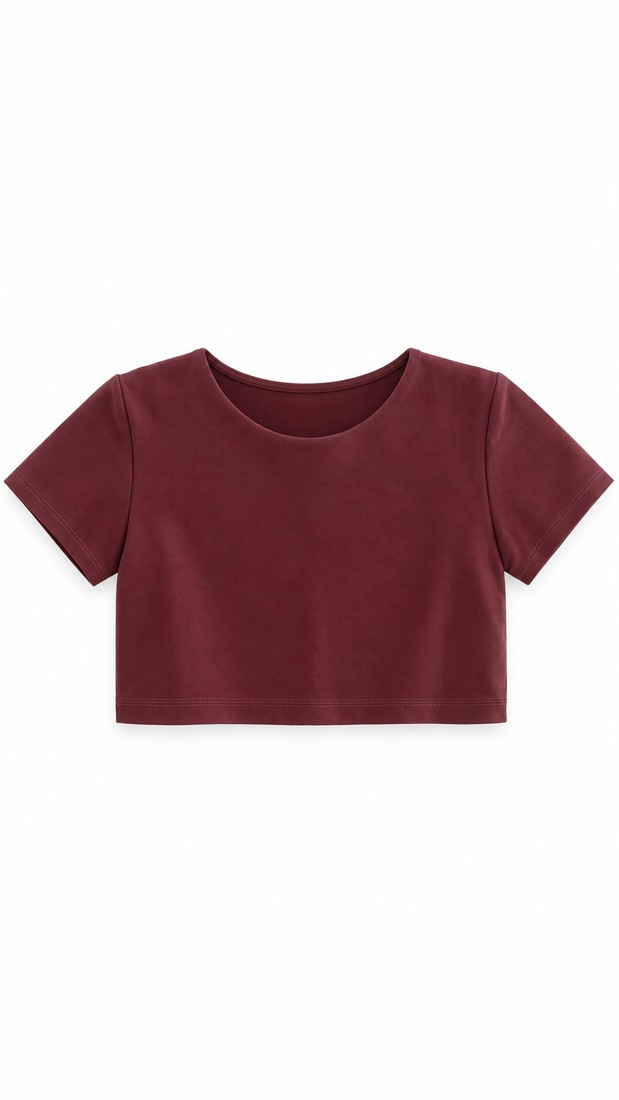
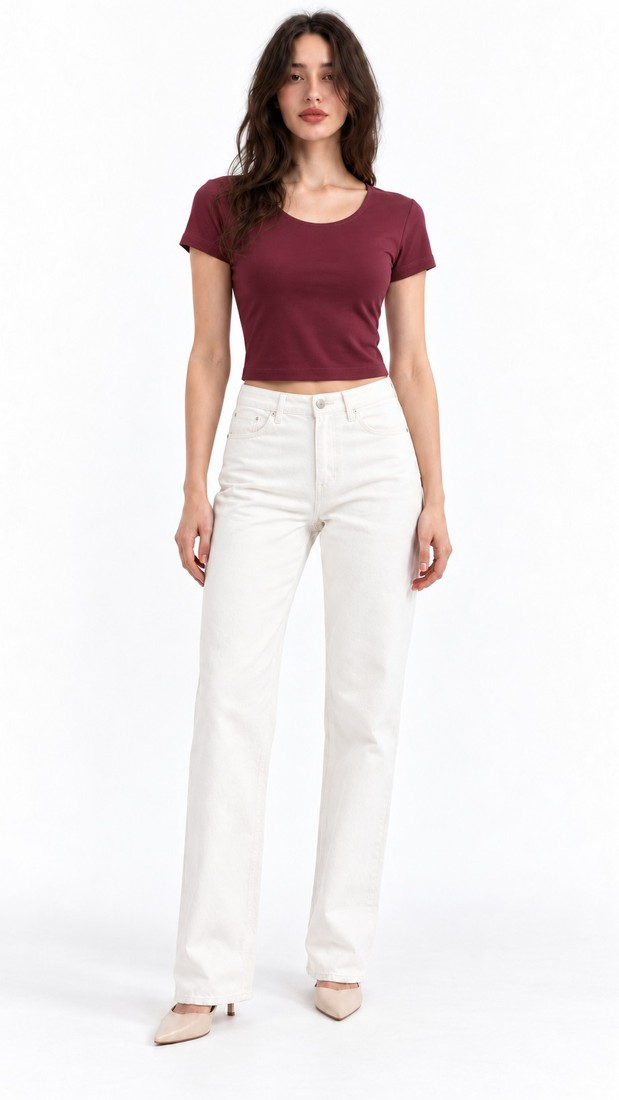
Обновление каталога 04.10.2026 22:25

diff --git a/docs/products.js b/docs/products.js
@@ -1186,9 +1186,9 @@ window.PRODUCTS = [
   "price": 2500,
   "old_price": null,
   "photos": [
-   "photos/SH-50-1.jpg?v=40476f62",
-   "photos/SH-50-2.jpg?v=6c28655e",
-   "photos/SH-50-3.jpg?v=ff497609"
+   "photos/SH-50-1.jpg?v=13808059",
+   "photos/SH-50-2.jpg?v=40476f62",
+   "photos/SH-50-3.jpg?v=c1ba369f"
   ],
   "note": "Размер на бирке не указан — менеджер подскажет по замерам.",
   "variants": [

diff --git a/docs/index.html b/docs/index.html
@@ -270,7 +270,7 @@
   // Telegram-ник менеджера, без @. Заменить перед публикацией.
   const MANAGER = "QqoldGM";
 </script>
-<script src="products.js?v=70a35073"></script>
+<script src="products.js?v=fbb77c62"></script>
 <script>
 (function () {
   const items = window.PRODUCTS || [];

diff --git a/codex_jobs.py b/codex_jobs.py
@@ -35,7 +35,7 @@ ITEMS = {
  "SH-25": ("dress", "Мимоза", "облегающее платье-футляр без рукавов выше колена: серое кружево поверх ярко-жёлтой подкладки, круглый вырез, жёлтая подкладка чуть выглядывает по низу, молния сзади"),
  "SH-41": ("dress", "Облако", "длинный распашной жилет-накидка без рукавов из голубого букле ниже колена: отделка золотистой фактурной тесьмой по краям, проймам и двум накладным карманам"),
  "SH-50": ("top", "Гранат", "бордовый укороченный облегающий топ из плотного трикотажа с короткими рукавами: спереди круглый вырез, сзади V-образный вырез"),
- "SH-48": ("dress", "Жемчуг", "белое облегающее длинное платье на тонких бретелях с прямым верхом лифа; на бёдрах сиреневая кружевная баска; узкая белая юбка в пол"),
+ "SH-48": ("dress", "Жемчуг", "белое облегающее длинное платье: лиф с прямым верхом на тонких гладких белых бретелях из той же ткани; на бёдрах сиреневая кружевная баска; узкая белая юбка в пол. Блестящие лямки со стразами и надписью на фото — это бельё модели, НЕ часть платья: бретели платья гладкие белые, без страз и букв"),
 }
 RULES = ("Сохрани вещь максимально идентичной оригиналу: цвет и оттенок ткани, принт, фактура, длина, силуэт, ширина юбки, посадка, "
          "линия талии, форма и глубина горловины, спинка, длина и форма рукавов, застёжки, пуговицы, швы, складки, воланы, кружево, "
